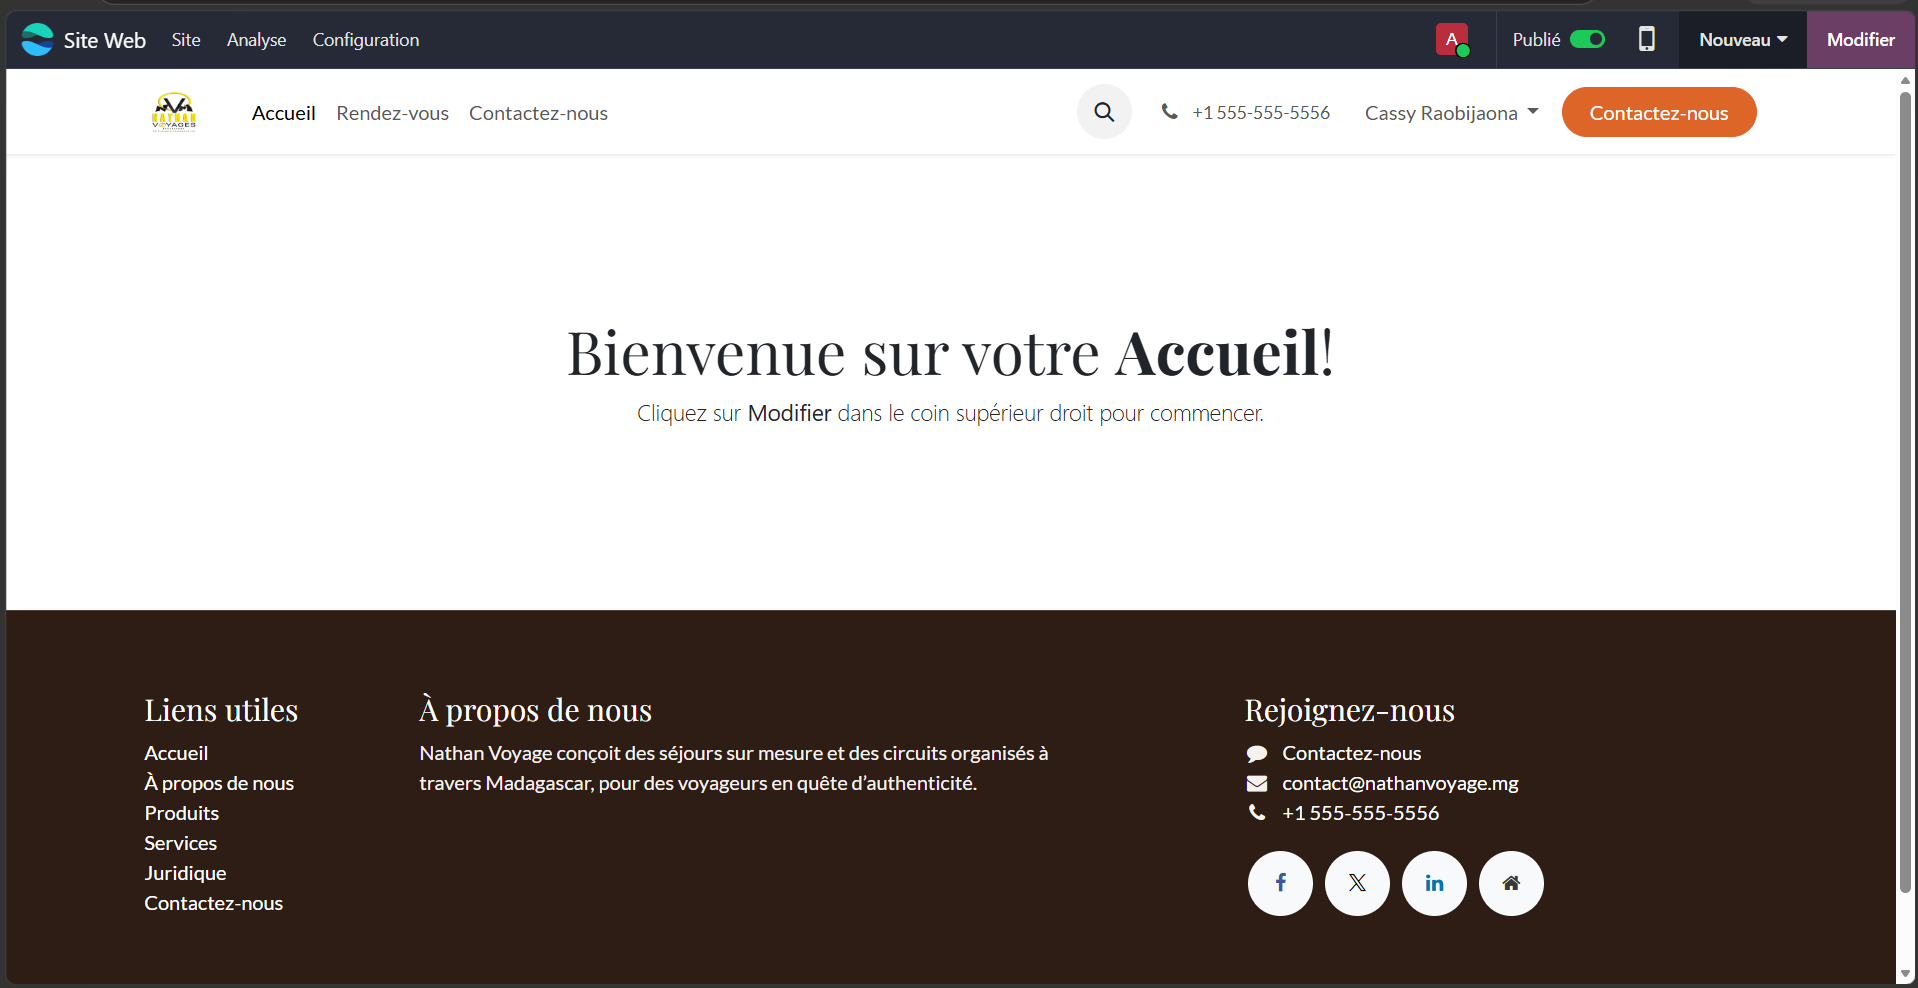
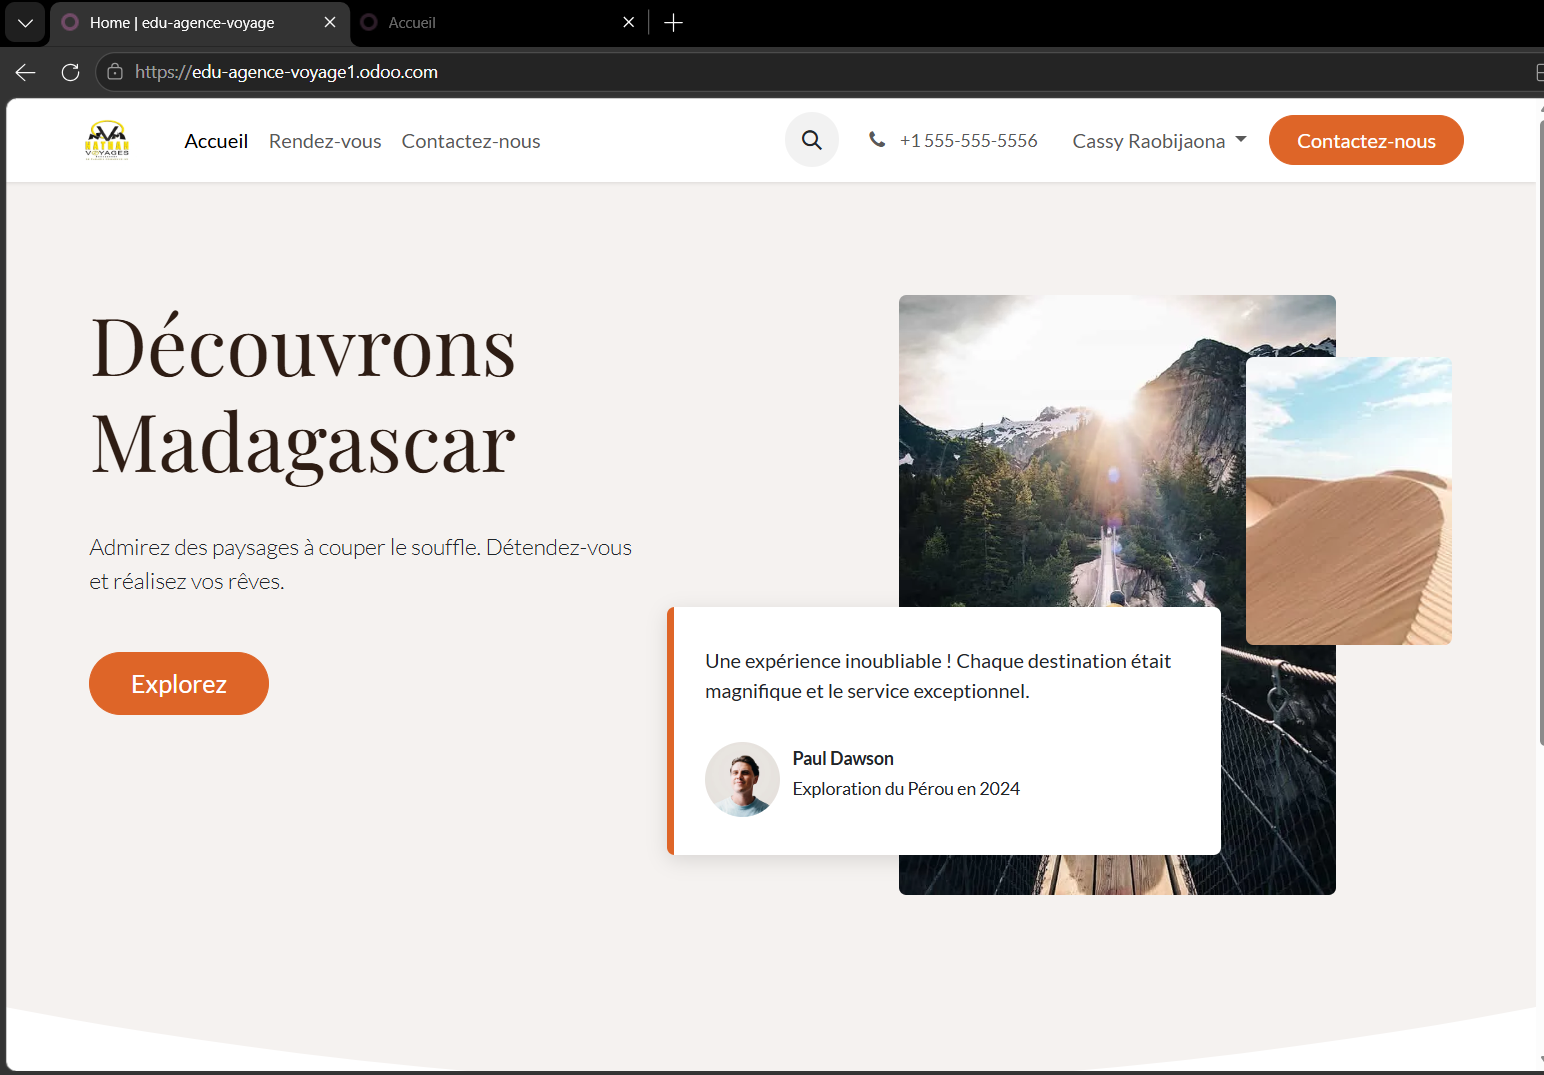
Mettre à jour les descriptions des projets et élargir les compétences
- Remplacer toutes les descriptions de projet par des versions plus
  impactantes et professionnelles qui mettent l'accent sur les résultats
  et le contexte plutôt que sur la tâche seule

- Ajouter deux nouvelles compétences au bloc 'Comprendre le besoin':
  - Stratégie réseaux sociaux (Marketing digital)
  - Digitalisation des processus (ERP & processus métier)
  - Analyse des besoins métier (ERP & processus métier)

- Supprimer les images de projets en doublon ou inutilisées

diff --git a/lib/projects.ts b/lib/projects.ts
@@ -29,7 +29,7 @@ export const projects: Project[] = [
     title: "Le Marché d'Herblay",
     category: "pro",
     summary:
-      "Site web et contenu marketing pour un commerce de fruits et légumes en cours d'ouverture en France.",
+      "Site e-commerce développé pour un commerce indépendant, du premier brief à la mise en production — incluant un paiement en ligne réel.",
     context:
       "Le commerce n'avait aucune présence en ligne au démarrage du projet : pas de site, pas de nom de domaine, pas de stratégie de contenu.",
     role: "Développement du site (Next.js), intégration du paiement Stripe, création de contenu vidéo pour les réseaux sociaux (TikTok), gestion administrative (nom de domaine, adresse email professionnelle).",
@@ -44,7 +44,7 @@ export const projects: Project[] = [
     title: "EventSync",
     category: "academic",
     summary:
-      "Plateforme de gestion de conférences développée en équipe.",
+      "Backend et frontend d'une plateforme de conférences développés en équipe, avec gestion réelle des conflits Git.",
     context:
       "Projet de groupe avec plusieurs contributeurs travaillant sur le même dépôt, nécessitant une coordination technique réelle.",
     role: "Développement complet de l'entité Speaker (backend) et de l'intégralité du frontend, gestion des branches Git et résolution des conflits de fusion en équipe.",
@@ -58,7 +58,7 @@ export const projects: Project[] = [
     id: "patrilang",
     title: "PatriLang",
     category: "academic",
-    summary: "Modélisation de patrimoine financier.",
+    summary: "Un langage dédié pour rendre lisible un patrimoine financier complexe, du prototype à la présentation.",
     context:
       "Projet de groupe visant à rendre lisible la structure d'un patrimoine financier complexe à travers un langage conçu pour ça.",
     role: "Génération des données d'un scénario familial complet, création d'un site, rédaction d'un livre blanc, préparation de la présentation finale.",
@@ -73,7 +73,7 @@ export const projects: Project[] = [
     id: "pipeline-qualite-air",
     title: "Pipeline qualité de l'air",
     category: "academic",
-    summary: "Pipeline ETL de collecte et traitement de données de qualité de l'air sur plusieurs villes.",
+    summary: "Pipeline ETL automatisé transformant des données brutes multi-villes en dashboard consultable en ligne.",
     context:
       "Projet du cours Données nécessitant l'automatisation de la collecte, du traitement et de la visualisation de données multi-sources.",
     role: "Conception et mise en place du pipeline avec Apache Airflow et Docker, du scraping brut jusqu'aux visualisations finales.",
@@ -88,7 +88,7 @@ export const projects: Project[] = [
     id: "ecostyle",
     title: "EcoStyle",
     category: "academic",
-    summary: "Plan marketing digital pour une marque de mode éco-responsable fictive.",
+    summary: "Stratégie marketing complète pour une marque éco-responsable, construite autour d'objectifs mesurables.",
     context:
       "Projet de groupe avec un enjeu de crédibilité : construire une stratégie de communication cohérente avec un positionnement écologique, sans tomber dans le greenwashing.",
     role: "Construction des personas, définition des objectifs SMART, élaboration du calendrier éditorial et des KPIs de suivi.",
@@ -102,7 +102,7 @@ export const projects: Project[] = [
     id: "dancehall",
     title: "DanceHall",
     category: "academic",
-    summary: "Site WordPress pour une académie de danse.",
+    summary: "Site vitrine WordPress conçu et livré en solo pour une académie de danse.",
     context:
       "Exercice individuel pour un bonus E-réputation & Blogging, du choix du thème à la mise en ligne complète du site.",
     role: "Structuration du site via Elementor, définition des styles globaux et de la hiérarchie visuelle des pages.",
@@ -116,7 +116,7 @@ export const projects: Project[] = [
     id: "nathan-voyage",
     title: "Nathan Voyage",
     category: "academic",
-    summary: "Gestion de voyage avec Odoo.",
+    summary: "Site vitrine construit avec le Website Builder d'Odoo, au sein d'une configuration ERP complète réalisée en équipe.",
     context:
       "Exercice pratique de groupe sur l'ERP Odoo, avec une répartition des modules entre les membres de l'équipe.",
     role: "Spécialisation sur la partie site : conception et structuration complète du site vitrine (accueil, présentation, catalogue de voyages) via le module Website Builder, pendant que le reste de l'équipe configurait les autres modules Odoo (comptabilité, etc.).",
@@ -131,7 +131,7 @@ export const projects: Project[] = [
     id: "portfolio",
     title: "Portfolio personnel",
     category: "pro",
-    summary: "Site personnel conçu pour présenter mon profil et mes projets de manière structurée.",
+    summary: "Portfolio professionnel conçu, développé et déployé en autonomie, de la structure du contenu au nom de domaine.",
     context:
       "Besoin d'un support distinct du portfolio académique, orienté recherche d'alternance et de missions freelance.",
     role: "Définition du positionnement et de la structure du contenu, choix techniques (Next.js, Tailwind CSS, Framer Motion), développement des pages, intégration du formulaire de contact et du CV.",

diff --git a/components/About.tsx b/components/About.tsx
@@ -64,11 +64,16 @@ const blocks: Block[] = [
           { icon: FiTrendingUp, label: "Plans marketing" },
           { icon: FiSearch, label: "SEO" },
           { icon: SiTiktok, label: "Contenu vidéo / TikTok" },
+          { icon: FiUsers, label: "Stratégie réseaux sociaux" },
         ],
       },
       {
         label: "ERP & processus métier",
-        skills: [{ icon: SiOdoo, label: "Odoo" }],
+        skills: [
+          { icon: SiOdoo, label: "Odoo" },
+          { icon: FiGitBranch, label: "Digitalisation des processus" },
+          { icon: FiTarget, label: "Analyse des besoins métier" },
+        ],
       },
     ],
   },
